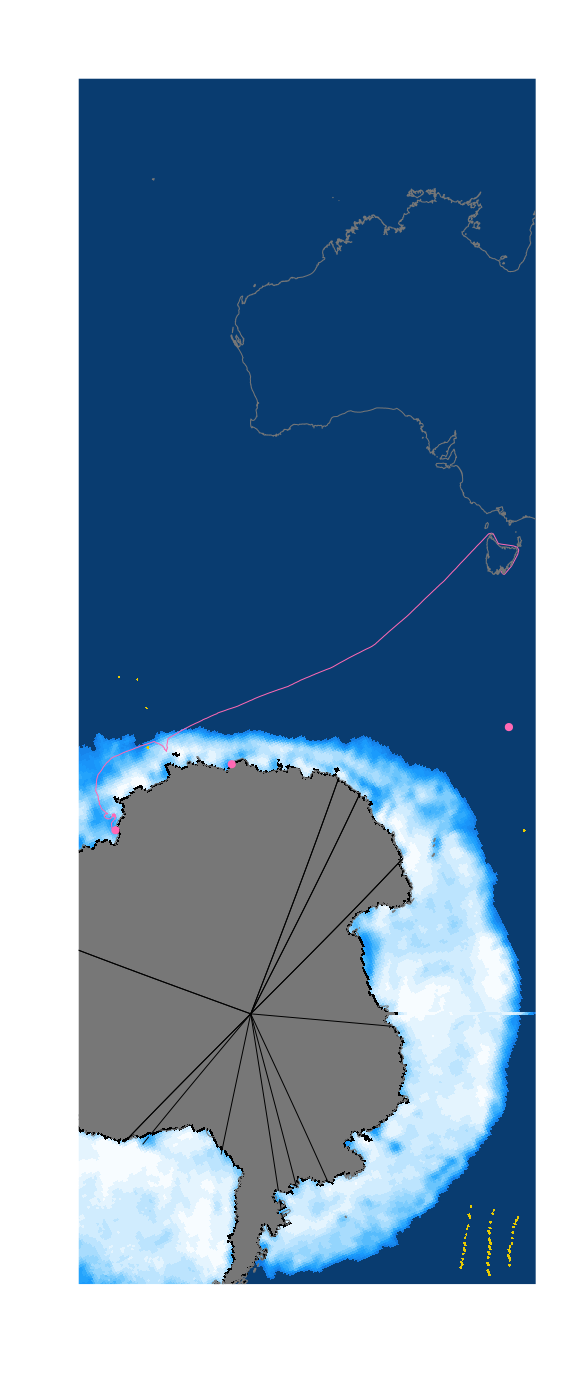
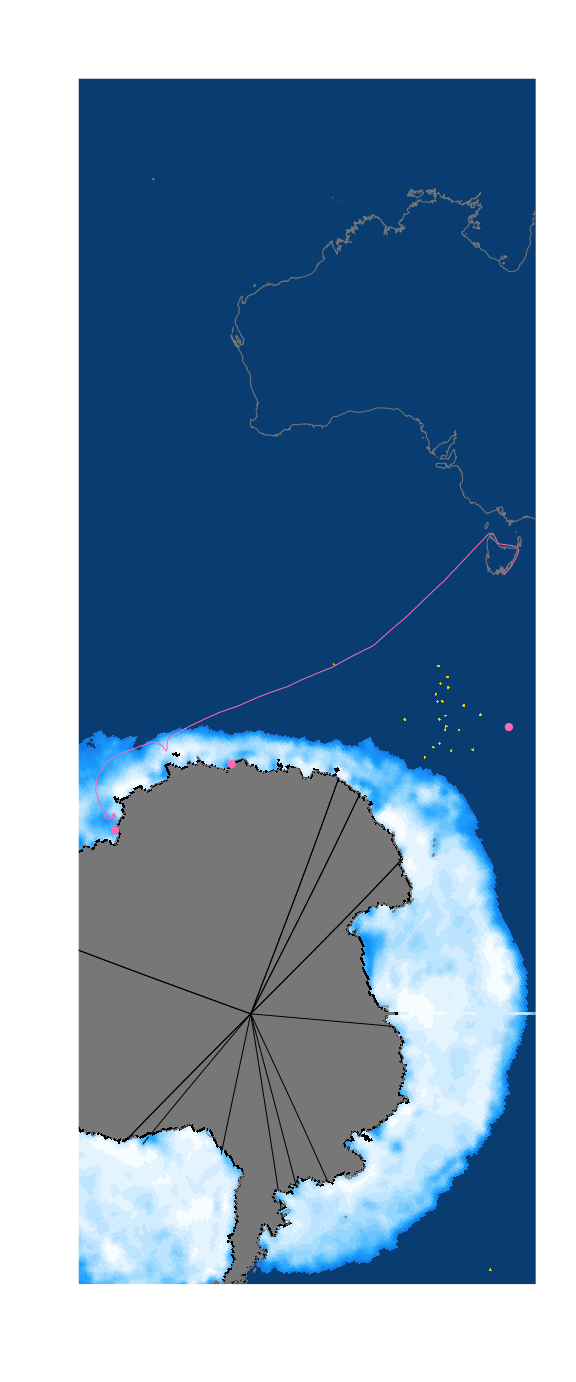
readme

diff --git a/README.md b/README.md
@@ -150,6 +150,13 @@ A sentinel-2-l2a image around the ship.
 
 ``` r
 ## there's an artefact uploaded for each run, but we should probably put these elswhere ...WIP
+r <- try(rast("/vsicurl/https://github.com/mdsumner/seaice.map/raw/main/data-raw/sentinel-image.tif"))
+#> Error : [rast] file does not exist: /vsicurl/https://github.com/mdsumner/seaice.map/raw/main/data-raw/sentinel-image.tif
+if (!inherits(r, "try-error")) {
+plotRGB(r)
+lines(ptrack, col = "hotpink")
+points(pl$X, pl$Y, pch = 19, col = "hotpink", cex = 0.5)
+}
 ```
 
 ## Code of Conduct
